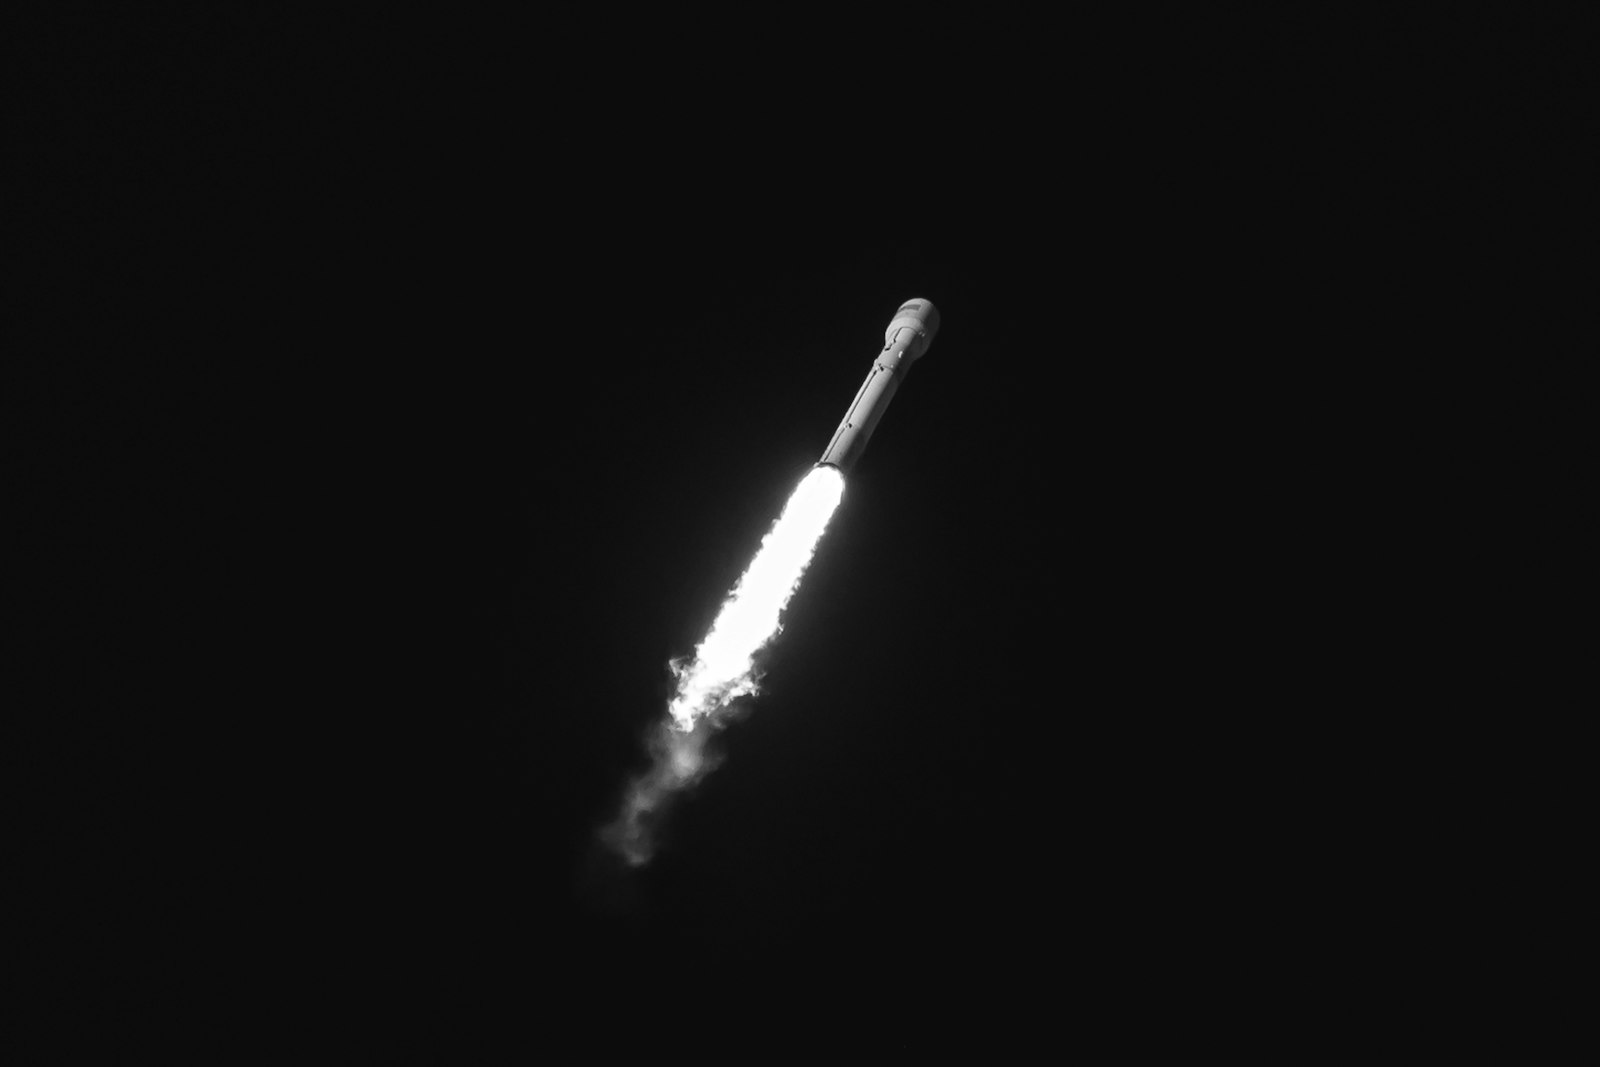
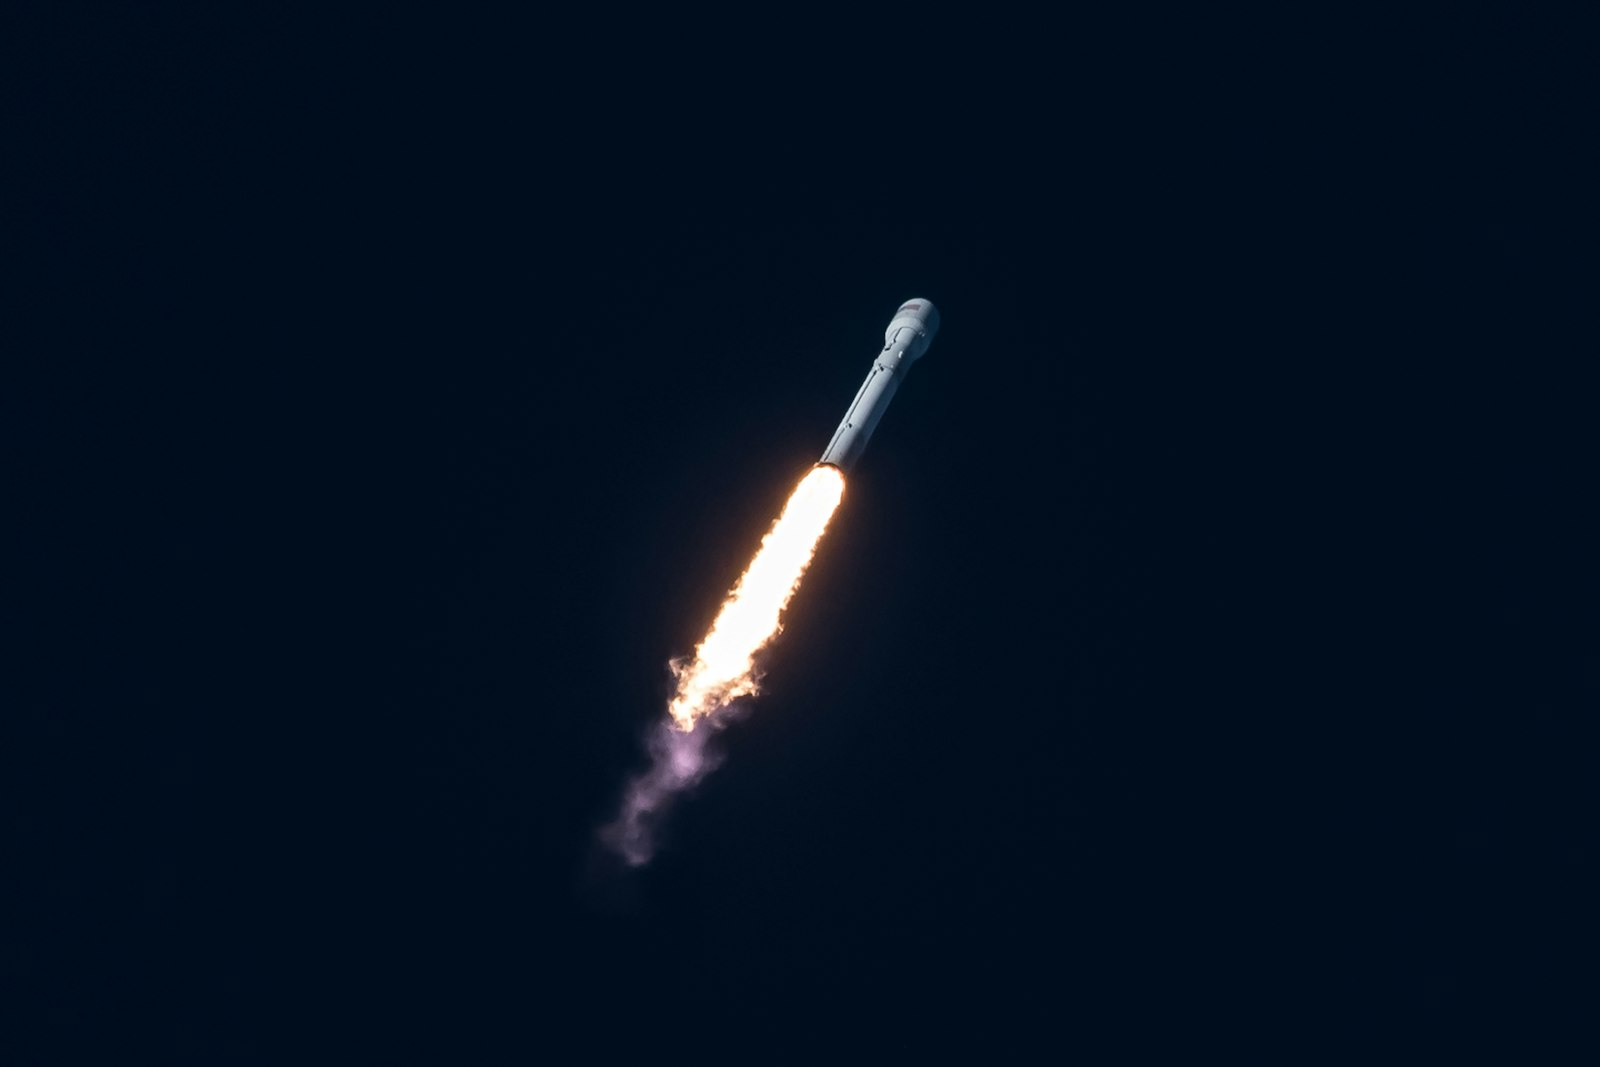
chore: remove b&w filter for bg images

Changed region(s): [[0.4062, 0.5258, 0.5, 0.7423], [0.4688, 0.433, 0.5312, 0.5567], [0.5625, 0.3093, 0.5938, 0.3402]]

diff --git a/client/app/page.tsx b/client/app/page.tsx
@@ -412,7 +412,7 @@ export default function HomePage() {
               src="/images/spacex-launch-arc.jpg"
               alt=""
               aria-hidden="true"
-              className="h-full w-full scale-[1.03] object-cover object-[72%_35%] opacity-[0.22] contrast-125 will-change-transform sm:object-right-bottom dark:opacity-[0.32] [mask-image:radial-gradient(ellipse_80%_75%_at_75%_55%,black_25%,transparent_100%)]"
+              className="h-full w-full scale-[1.03] object-cover object-[72%_35%] opacity-[0.22] will-change-transform sm:object-right-bottom dark:opacity-[0.32] [mask-image:radial-gradient(ellipse_80%_75%_at_75%_55%,black_25%,transparent_100%)]"
             />
             <div className="mission-grid absolute inset-0 opacity-55" />
             <div className="hero-spotlight absolute inset-0 transition-opacity duration-500" />
@@ -560,7 +560,7 @@ export default function HomePage() {
               src="/images/falcon-ascent.jpg"
               alt=""
               aria-hidden="true"
-              className="h-full w-full scale-105 object-cover object-center opacity-[0.16] contrast-125 will-change-transform dark:opacity-[0.28] [mask-image:radial-gradient(ellipse_75%_75%_at_55%_50%,black_25%,transparent_100%)]"
+              className="h-full w-full scale-105 object-cover object-center opacity-[0.16] will-change-transform dark:opacity-[0.28] [mask-image:radial-gradient(ellipse_75%_75%_at_55%_50%,black_25%,transparent_100%)]"
             />
             <div className="mission-grid absolute inset-0 opacity-40" />
           </div>
@@ -651,7 +651,7 @@ export default function HomePage() {
               src="/images/orbital-instrument.jpg"
               alt=""
               aria-hidden="true"
-              className="h-full w-full scale-105 object-cover object-[70%_30%] opacity-[0.12] contrast-125 will-change-transform dark:opacity-[0.17] [mask-image:radial-gradient(ellipse_75%_75%_at_75%_45%,black_15%,transparent_100%)]"
+              className="h-full w-full scale-105 object-cover object-[70%_30%] opacity-[0.12] will-change-transform dark:opacity-[0.17] [mask-image:radial-gradient(ellipse_75%_75%_at_75%_45%,black_15%,transparent_100%)]"
             />
             <div className="mission-grid absolute inset-0 opacity-35" />
           </div>
@@ -754,7 +754,7 @@ export default function HomePage() {
               src="/images/earth-dark.jpg"
               alt=""
               aria-hidden="true"
-              className="h-full w-full scale-105 object-cover object-center opacity-[0.14] contrast-125 will-change-transform dark:opacity-[0.22] [mask-image:radial-gradient(ellipse_68%_65%_at_50%_55%,black_20%,transparent_100%)]"
+              className="h-full w-full scale-105 object-cover object-center opacity-[0.14] will-change-transform dark:opacity-[0.22] [mask-image:radial-gradient(ellipse_68%_65%_at_50%_55%,black_20%,transparent_100%)]"
             />
             <svg
               aria-hidden="true"

diff --git a/client/components/chat/indexing-state.tsx b/client/components/chat/indexing-state.tsx
@@ -187,7 +187,7 @@ export function IndexingState({
         src="/images/orbital-horizon.jpg"
         alt=""
         aria-hidden="true"
-        className="pointer-events-none absolute inset-0 h-full w-full object-cover object-center opacity-[0.12] contrast-125 select-none dark:opacity-[0.18] [mask-image:radial-gradient(ellipse_70%_70%_at_50%_50%,black_20%,transparent_100%)]"
+        className="pointer-events-none absolute inset-0 h-full w-full object-cover object-center opacity-[0.12] select-none dark:opacity-[0.18] [mask-image:radial-gradient(ellipse_70%_70%_at_50%_50%,black_20%,transparent_100%)]"
       />
       <div className="mission-grid pointer-events-none absolute inset-0 opacity-50" />
 

diff --git a/client/components/landing/pipeline-scrollytelling.tsx b/client/components/landing/pipeline-scrollytelling.tsx
@@ -228,7 +228,7 @@ export function PipelineScrollytelling({
             src="/images/orbital-horizon.jpg"
             alt=""
             aria-hidden="true"
-            className="h-full w-full scale-105 object-cover object-center opacity-[0.14] contrast-125 will-change-transform dark:opacity-[0.22] [mask-image:radial-gradient(ellipse_80%_70%_at_55%_55%,black_20%,transparent_100%)]"
+            className="h-full w-full scale-105 object-cover object-center opacity-[0.14] will-change-transform dark:opacity-[0.22] [mask-image:radial-gradient(ellipse_80%_70%_at_55%_55%,black_20%,transparent_100%)]"
           />
           <div className="mission-grid absolute inset-0 opacity-45" />
         </div>
